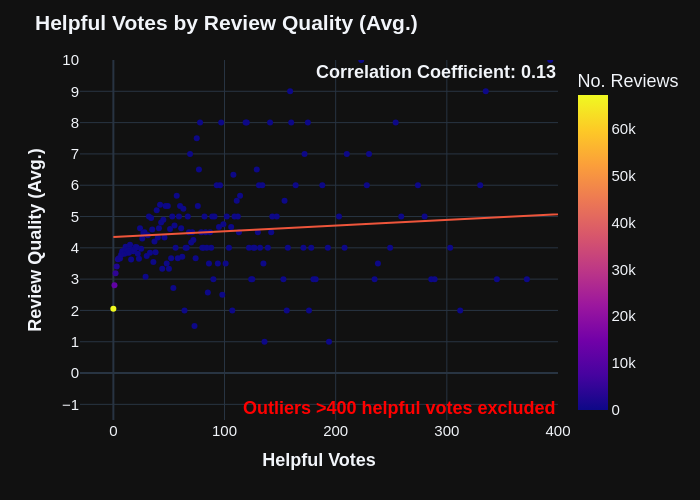
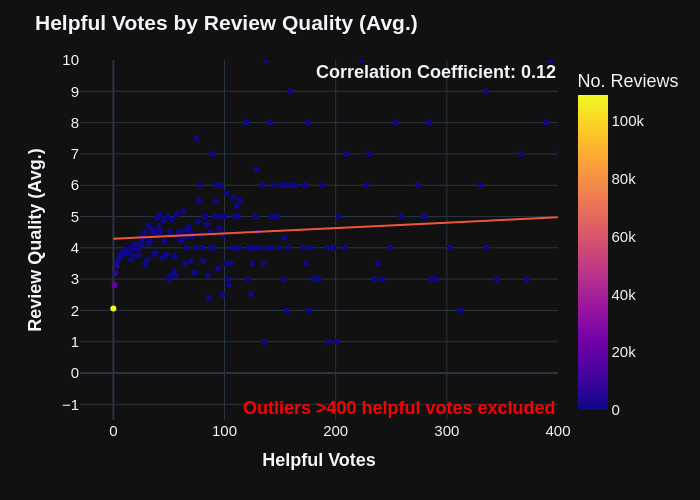
redid plots with larger dataset

diff --git a/src/main.py b/src/main.py
@@ -193,32 +193,33 @@ for iteration in range(3):
     for review_file, product_file in zip(review_files, product_files):
         t0 = time.time()
 
-        if iteration == 0 and review_file in [
-            "All_Beauty.jsonl.gz",
-            "Amazon_Fashion.jsonl.gz",
-            "Appliances.jsonl.gz",
-            "Arts_Crafts_and_Sewing.jsonl.gz",
-            "Automotive.jsonl.gz",
-            "Baby_Products.jsonl.gz",
-            "Beauty_and_Personal_Care.jsonl.gz",
-            "Books.jsonl.gz",
-            "CDs_and_Vinyl.jsonl.gz",
-            "Cell_Phones_and_Accessories.jsonl.gz",
-            "Clothing_Shoes_and_Jewelry.jsonl.gz",
-            "Digital_Music.jsonl.gz",
-            "Electronics.jsonl.gz",
-            "Gift_Cards.jsonl.gz",
-            "Grocery_and_Gourmet_Food.jsonl.gz",
-            "Handmade_Products.jsonl.gz",
-            "Health_and_Household.jsonl.gz",
-            "Health_and_Personal_Care.jsonl.gz",
-            "Home_and_Kitchen.jsonl.gz",
-            "Industrial_and_Scientific.jsonl.gz",
-            "Kindle_Store.jsonl.gz",
-            "Magazine_Subscriptions.jsonl.gz",
-            "Movies_and_TV.jsonl.gz",
-            "Musical_Instruments.jsonl.gz",
-        ]:
+        if iteration == 0 and review_file != review_files[-1]:
+            # [
+            #     "All_Beauty.jsonl.gz",
+            #     "Amazon_Fashion.jsonl.gz",
+            #     "Appliances.jsonl.gz",
+            #     "Arts_Crafts_and_Sewing.jsonl.gz",
+            #     "Automotive.jsonl.gz",
+            #     "Baby_Products.jsonl.gz",
+            #     "Beauty_and_Personal_Care.jsonl.gz",
+            #     "Books.jsonl.gz",
+            #     "CDs_and_Vinyl.jsonl.gz",
+            #     "Cell_Phones_and_Accessories.jsonl.gz",
+            #     "Clothing_Shoes_and_Jewelry.jsonl.gz",
+            #     "Digital_Music.jsonl.gz",
+            #     "Electronics.jsonl.gz",
+            #     "Gift_Cards.jsonl.gz",
+            #     "Grocery_and_Gourmet_Food.jsonl.gz",
+            #     "Handmade_Products.jsonl.gz",
+            #     "Health_and_Household.jsonl.gz",
+            #     "Health_and_Personal_Care.jsonl.gz",
+            #     "Home_and_Kitchen.jsonl.gz",
+            #     "Industrial_and_Scientific.jsonl.gz",
+            #     "Kindle_Store.jsonl.gz",
+            #     "Magazine_Subscriptions.jsonl.gz",
+            #     "Movies_and_TV.jsonl.gz",
+            #     "Musical_Instruments.jsonl.gz",
+            # ]:
             logger.info(
                 f"Skipping {review_file}, {product_file} on iteration {iteration}."
             )
